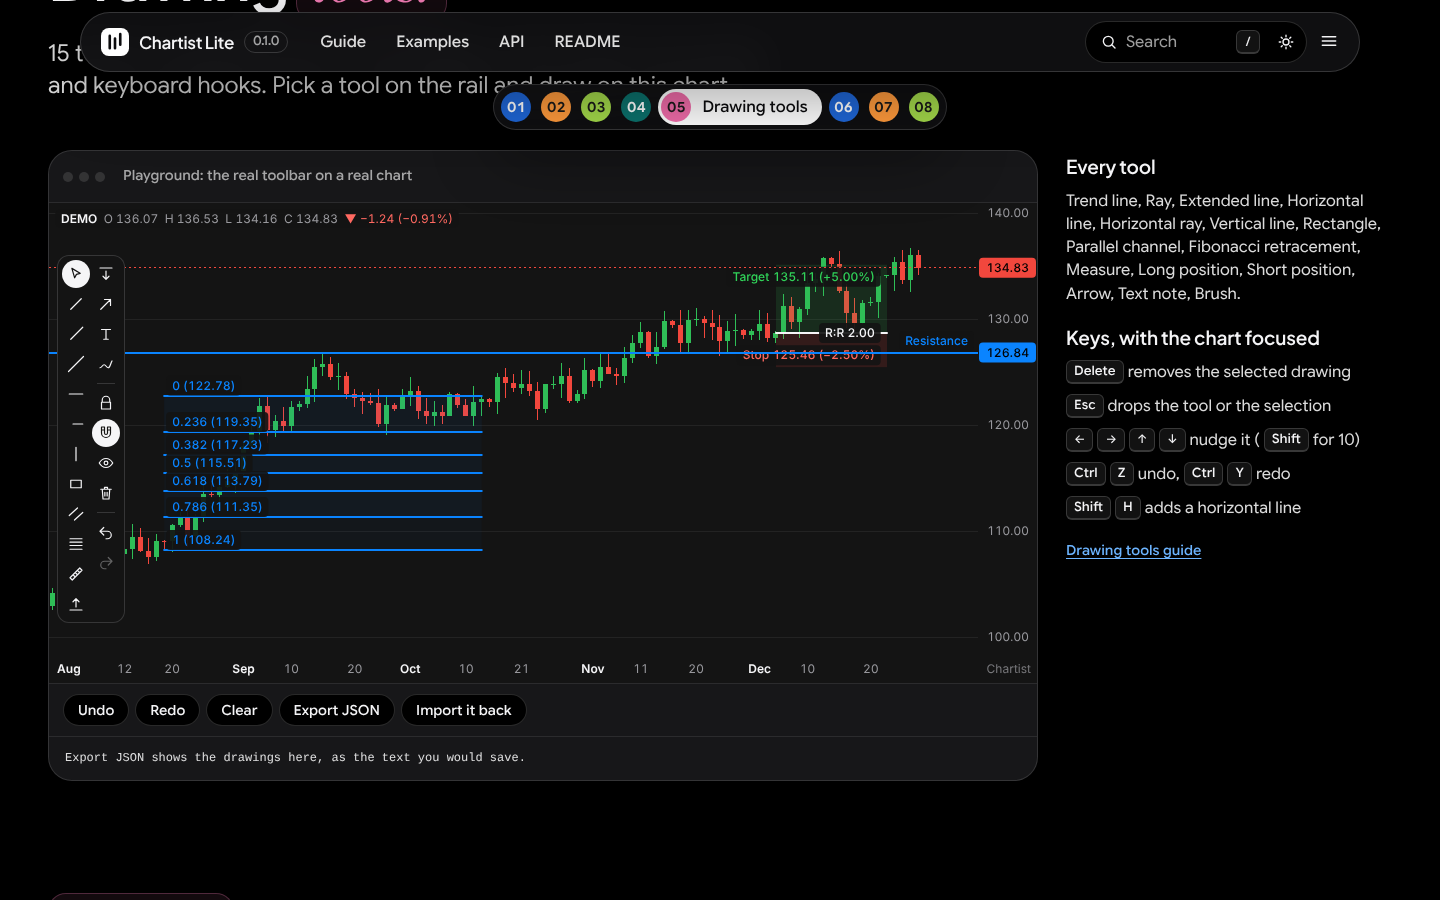
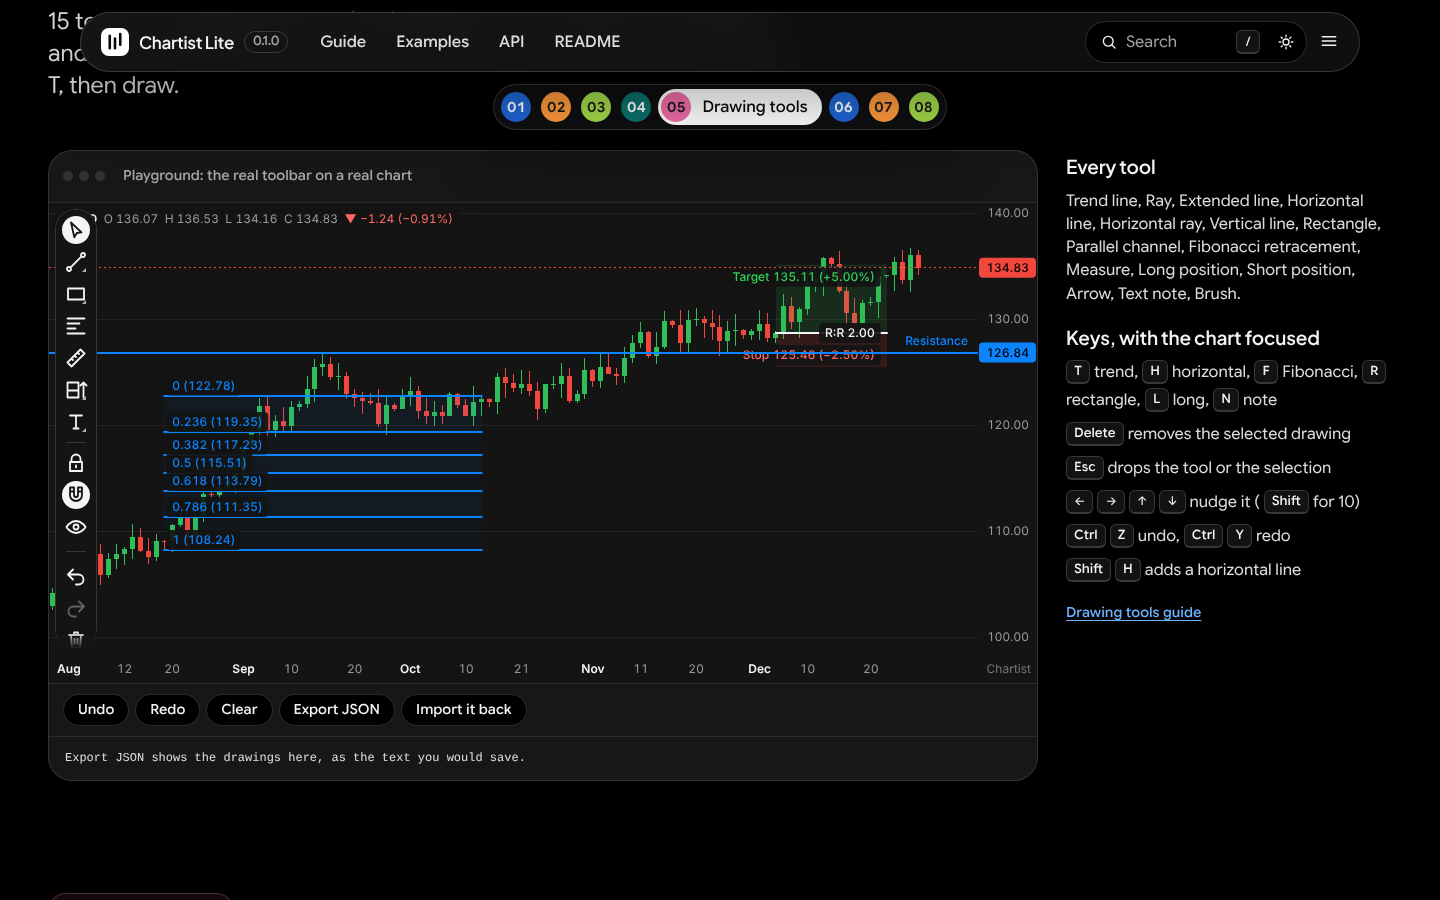
docs(chartist-lite): guide navigation as a framed panel, balanced page, drawing rail docs
Claude-Session: https://claude.ai/code/session_01ExJ6mdDp2qtjWTeRFWUfz3

diff --git a/site/src/site.js b/site/src/site.js
@@ -503,16 +503,43 @@ function initGuideNav() {
       let saved = 0;
       try { saved = Number(sessionStorage.getItem('cl-nav-scroll')) || 0; } catch (e) { saved = 0; }
       if (saved) sc.scrollTop = saved;
-      const cur = $('[aria-current="page"]', sc);
-      if (cur) {
+      sc._showCurrent = () => {
+        const cur = $('[aria-current="page"]', sc);
+        if (!cur) return;
         const top = cur.offsetTop - sc.offsetTop; const bottom = top + cur.offsetHeight;
         if (top < sc.scrollTop + 8 || bottom > sc.scrollTop + sc.clientHeight - 8) sc.scrollTop = Math.max(0, top - sc.clientHeight / 2 + cur.offsetHeight / 2);
-      }
+      };
+      sc._showCurrent();
       window.addEventListener('pagehide', () => { try { sessionStorage.setItem('cl-nav-scroll', String(sc.scrollTop)); } catch (e) { /* storage blocked */ } });
     }
     sc.addEventListener('scroll', fades, { passive: true });
     window.addEventListener('resize', fades);
     fades();
+  }
+  // Near the end of a page the sticky panel would be carried up under the top bar by the end of its column; it
+  // shrinks instead (its own scroll keeps working), so it never slides under the bar.
+  const side = $('.docs-nav .nav-panel');
+  const docs = side && side.closest('.docs');
+  if (side && docs) {
+    let queued = false;
+    const fit = () => {
+      queued = false;
+      const top = parseFloat(getComputedStyle(side.parentElement).top) || 0;
+      const room = Math.min(window.innerHeight - top - 20, docs.getBoundingClientRect().bottom - top - 20);
+      side.style.setProperty('--nav-max', `${Math.max(160, Math.floor(room))}px`);
+      const sc = $('[data-nav-scroll]', side);
+      if (sc) sc.dispatchEvent(new Event('scroll'));
+    };
+    const ask = () => { if (!queued) { queued = true; requestAnimationFrame(fit); } };
+    window.addEventListener('scroll', ask, { passive: true });
+    window.addEventListener('resize', ask);
+    fit();
+    const sc0 = $('[data-nav-scroll]', side);
+    if (sc0 && sc0._showCurrent) {
+      sc0._showCurrent();
+      // Rows change height when the web fonts arrive: check once more then.
+      if (document.fonts && document.fonts.ready) document.fonts.ready.then(() => { fit(); sc0._showCurrent(); });
+    }
   }
   const drawer = $('#drawer');
   for (const b of $$('[data-open-drawer]')) {

diff --git a/site/assets/site.css b/site/assets/site.css
@@ -637,7 +637,7 @@ pre.out { margin: 0; padding: 12px 16px; max-height: 180px; overflow: auto; bord
 /* The guide navigation: a framed panel of inset icon rows (the mrchartist.com menu panel), its own scroll with
    faded edges, "n of N" and previous / next at the foot. The same panel sits in the drawer on narrow screens. */
 .nav-panel { display: flex; flex-direction: column; border: 1px solid var(--hair-2); border-radius: var(--r-lg); background: var(--panel-glass); box-shadow: var(--shadow-card); overflow: hidden; }
-.nav-panel--side { max-height: calc(100vh - var(--bar-top) - var(--bar-h) - 40px); -webkit-backdrop-filter: blur(20px) saturate(1.4); backdrop-filter: blur(20px) saturate(1.4); }
+.nav-panel--side { max-height: var(--nav-max, calc(100vh - var(--bar-top) - var(--bar-h) - 40px)); -webkit-backdrop-filter: blur(20px) saturate(1.4); backdrop-filter: blur(20px) saturate(1.4); }
 .nav-panel--drawer { margin: 0 4px; box-shadow: none; }
 .nav-head { display: flex; align-items: center; justify-content: space-between; padding: 14px 16px 6px; }
 .nav-title { font: var(--t-eyebrow); letter-spacing: var(--tk-eyebrow); text-transform: uppercase; color: var(--muted); text-decoration: none; display: inline-flex; align-items: center; min-height: 28px; }

diff --git a/README.md b/README.md
@@ -2,14 +2,14 @@
 
 <p align="center"><strong>Financial charts that stay light.</strong> Candlesticks, indicators, drawing tools, stacked panes and exchange time zones on one canvas, with no runtime dependencies.</p>
 
-<p align="center"><img src="https://img.shields.io/badge/licence-Apache--2.0-0B0B0F" alt="Licence Apache-2.0"> <img src="https://img.shields.io/badge/dependencies-0-0B0B0F" alt="Runtime dependencies: 0"> <img src="https://img.shields.io/badge/core-32.6%20KB%20gzip-0B0B0F" alt="Core 32.6 KB gzip"> <img src="https://img.shields.io/badge/120%20Hz-worst%20p95%205.9%20ms-0B0B0F" alt="120 Hz frame budget: worst p95 5.9 ms of 8.33"> <img src="https://img.shields.io/badge/tests-202%20passing-0B0B0F" alt="202 tests passing"> <img src="https://img.shields.io/badge/types-TypeScript-0B0B0F" alt="Written in TypeScript"></p>
+<p align="center"><img src="https://img.shields.io/badge/licence-Apache--2.0-0B0B0F" alt="Licence Apache-2.0"> <img src="https://img.shields.io/badge/dependencies-0-0B0B0F" alt="Runtime dependencies: 0"> <img src="https://img.shields.io/badge/core-32.6%20KB%20gzip-0B0B0F" alt="Core 32.6 KB gzip"> <img src="https://img.shields.io/badge/120%20Hz-worst%20p95%205.9%20ms-0B0B0F" alt="120 Hz frame budget: worst p95 5.9 ms of 8.33"> <img src="https://img.shields.io/badge/tests-205%20passing-0B0B0F" alt="205 tests passing"> <img src="https://img.shields.io/badge/types-TypeScript-0B0B0F" alt="Written in TypeScript"></p>
 
 <p align="center"><picture><source media="(prefers-color-scheme: dark)" srcset="docs/screenshots/site-readme-hero-dark.png"><img src="docs/screenshots/site-readme-hero-light.png" alt="A Chartist Lite chart drawn from demo data: daily candles with a 20-bar moving average, Bollinger bands, volume and an RSI pane, with the built-in legend and crosshair" width="1600" height="800"></picture></p>
 
 ## What stands out
 
 - **120 Hz frame budget, measured:** in 96 scenarios up to 100000 bars, the costliest frame of our code took 5.90 ms at p95 of the 8.33 ms a 120 Hz screen allows; none went over ([how it was measured](docs/PERFORMANCE.md)).
-- **Drawing tools included:** 15 tools with a toolbar, undo and JSON export, in a 13.9 KB gzip entry.
+- **Drawing tools included:** 15 tools with a toolbar, undo and JSON export, in a 15.9 KB gzip entry.
 - **12 indicators built in,** plus Heikin-Ashi and bar aggregation, with live forms.
 - **One HTML tag to embed:** `<chartist-chart>` reads JSON or CSV and carries text for crawlers.
 - **Exchange time zones without session gaps,** daylight saving included.
@@ -129,8 +129,8 @@ Real screenshots of the library, drawn from invented demo data.
 | ![Six small charts: candlestick, OHLC bars, line, area, histogram and baseline](docs/screenshots/series-dark.png) | ![A candlestick chart with volume on an overlay scale and an RSI pane below](docs/screenshots/panes-dark.png) |
 | **Indicators** | **The chartist-chart element** |
 | ![Candlesticks with a 20-bar moving average and Bollinger bands, an RSI pane and a MACD pane](docs/screenshots/indicators-dark.png) | ![A chart drawn by the chartist-chart web component](docs/screenshots/element-dark.png) |
-| **Drawing tools** | **Every tool** |
-| ![The drawing toolbar on a candlestick chart with a Fibonacci retracement, a trend line, a long position with target and stop, a labelled resistance line and a text note](docs/screenshots/drawings-dark.png) | ![All fifteen drawing tools on one chart](docs/screenshots/drawings-all-tools.png) |
+| **Drawing tools** | **Grouped rail with flyout menus** |
+| ![The drawing rail on a candlestick chart with a Fibonacci retracement, a trend line, a long position with target and stop, a labelled resistance line and a text note](docs/screenshots/drawings-dark.png) | ![The Shapes flyout open on the drawing rail, listing Rectangle with its key R and Parallel channel](docs/screenshots/drawings-flyout.png) |
 
 ## Performance
 
@@ -158,8 +158,8 @@ Bundled and minified with esbuild, gzipped at level 9, by `npm run size` on the 
 | Indicators | 5.2 KB |
 | Element (includes the chart) | 35.1 KB |
 | React (includes the chart) | 32.1 KB |
-| Drawings | 13.9 KB |
-| Script tag files: core, indicators, element, drawings | 32.9 KB, 5.5 KB, 35.4 KB, 14.1 KB |
+| Drawings | 15.9 KB |
+| Script tag files: core, indicators, element, drawings | 32.9 KB, 5.5 KB, 35.4 KB, 16.1 KB |
 
 The core has a 45 KB budget that `npm run size` enforces. Run `npm run build && npm run size` for the current numbers.
 
@@ -173,7 +173,7 @@ The core has a 45 KB budget that `npm run size` enforces. Run `npm run build && 
 | Legend | Built in, per pane: each titled series with the values of the hovered bar, or the last bar; the change with an arrow and a sign |
 | Time zones | IANA zones for the time axis and crosshair, `'local'`, daylight saving handled; no slot for nights, weekends or holidays |
 | Themes | Light, dark and auto (follows the system setting), colour overrides, system font stack, switch at runtime |
-| Drawing tools | 15 tools, a toolbar, magnet, keyboard editing, undo and redo, events, versioned JSON, opt-in saving; pointer hooks for tools of your own |
+| Drawing tools | 15 tools on a grouped rail with flyout menus and single-key shortcuts, magnet, keyboard editing, undo and redo, events, versioned JSON, opt-in saving; pointer hooks for tools of your own |
 | Plugins | Price lines, series markers, and a primitive contract for your own overlays |
 | Accessibility | Focusable chart with a name and spoken help, keyboard pan, zoom and bar-by-bar inspection through a live region, kinetic glide off under reduced motion, minimum text size 12 px |
 | Interaction | Wheel and pinch zoom that does not trap page scrolling (`wheelZoom: 'auto'`), drag pan with kinetic glide, price axis stretch, double-click reset, crosshair modes |
@@ -198,7 +198,7 @@ Details, attributes and data formats: [Embedding the chart](docs/guide/embedding
 
 ## Status and what is not verified
 
-Tested in Chromium (driven by Playwright): the example pages draw with no console errors in light and dark, including a page with a strict Content-Security-Policy (`style-src 'self'`), right-to-left text and hostile global CSS. 202 unit tests pass (`npm test`).
+Tested in Chromium (driven by Playwright): the example pages draw with no console errors in light and dark, including a page with a strict Content-Security-Policy (`style-src 'self'`), right-to-left text and hostile global CSS. 205 unit tests pass (`npm test`).
 
 Not verified yet:
 

diff --git a/docs/guide/drawing-tools.md b/docs/guide/drawing-tools.md
@@ -25,7 +25,7 @@ candles.setData(bars);
 const tools = createDrawingTools(chart, candles, { toolbar: true });
 ```
 
-Pick a tool on the rail, then press on the chart. Tools with two points take a press and a release (or two clicks); a horizontal line takes one; the brush draws while you hold. After a drawing is finished the rail goes back to the cursor, unless keep drawing is on. Importing the entry touches no DOM; the toolbar is built only when `toolbar` is set.
+Pick a tool on the rail, or focus the chart and press its key (T for a trend line), then press on the chart. Tools with two points take a press and a release (or two clicks); a horizontal line takes one; the brush draws while you hold. After a drawing is finished the rail goes back to the cursor, unless keep drawing is on. Importing the entry touches no DOM; the toolbar is built only when `toolbar` is set.
 
 With a script tag, load `chartist-lite-drawings.iife.min.js` after the core file and use the global `ChartistLiteDrawings`.
 
@@ -39,27 +39,27 @@ With a script tag, load `chartist-lite-drawings.iife.min.js` after the core file
 | `defaultStyle` | `{ color, width: 1 \| 2 \| 3, dash: 'solid' \| 'dashed' }` for new drawings | the theme's line colour, width 2, solid |
 | `persist` | `{ key, storage? }`: save after every change and load at start (`localStorage` unless you pass a storage) | off |
 
-The rail also holds keep drawing, magnet, hide all, delete all, undo and redo. Selecting a drawing shows a small style bar for its colour, width and dash. The toolbar lives in a shadow root and writes its styles through the CSSOM, so page CSS cannot reach it and a strict `style-src 'self'` policy does not block it.
+The rail is one column of grouped buttons: the cursor, then Lines, Shapes, Fibonacci, Measure, Positions and Annotate. A group with more than one tool opens a flyout menu that lists each tool with its key; the menu works with the arrow keys, Home, End, Enter and Escape. Below the groups sit keep drawing, magnet and hide all, then undo, redo and delete all. Selecting a drawing shows a small style bar for its colour, width and dash. The toolbar lives in a shadow root and writes its styles through the CSSOM, so page CSS cannot reach it and a strict `style-src 'self'` policy does not block it.
 
 ## The tools
 
-| Id | Tool | Points |
-|---|---|---|
-| `trend` | Trend line | 2 |
-| `ray` | Ray | 2 |
-| `extended` | Extended line | 2 |
-| `horizontal` | Horizontal line | 1 |
-| `horizontalRay` | Horizontal ray | 1 |
-| `vertical` | Vertical line | 1 |
-| `rectangle` | Rectangle | 2 |
-| `channel` | Parallel channel | 3 |
-| `fib` | Fibonacci retracement | 2 |
-| `measure` | Measure | 2 |
-| `long` | Long position | 2 |
-| `short` | Short position | 2 |
-| `arrow` | Arrow | 2 |
-| `text` | Text note | 1 |
-| `brush` | Brush | freehand |
+| Id | Tool | Rail group | Key | Points |
+|---|---|---|---|---|
+| `trend` | Trend line | Lines | T | 2 |
+| `ray` | Ray | Lines | | 2 |
+| `extended` | Extended line | Lines | | 2 |
+| `horizontal` | Horizontal line | Lines | H | 1 |
+| `horizontalRay` | Horizontal ray | Lines | | 1 |
+| `vertical` | Vertical line | Lines | V | 1 |
+| `rectangle` | Rectangle | Shapes | R | 2 |
+| `channel` | Parallel channel | Shapes | | 3 |
+| `fib` | Fibonacci retracement | Fibonacci | F | 2 |
+| `measure` | Measure | Measure | M | 2 |
+| `long` | Long position | Positions | L | 2 |
+| `short` | Short position | Positions | S | 2 |
+| `arrow` | Arrow | Annotate | A | 2 |
+| `text` | Text note | Annotate | N | 1 |
+| `brush` | Brush | Annotate | B | freehand |
 
 The list is exported as `TOOLS` (`{ id, label, points }`, with 0 points for the brush). The Fibonacci tool draws the levels 0, 0.236, 0.382, 0.5, 0.618, 0.786 and 1. A long or short position given two points (entry and target) gets a stop at half that distance on the other side, a reward to risk of 2.00; drag it to change it. Holding Shift while placing a point keeps the line horizontal, vertical or at 45 degrees from the previous point.
 
@@ -69,6 +69,7 @@ With the chart focused:
 
 | Key | Action |
 |---|---|
+| T, H, V, R, F, M, L, S, A, N, B | Pick that tool (see the table above); the same key again drops it. Only without Shift, Alt, Ctrl or Cmd |
 | Delete, Backspace | Remove the selected drawing |
 | Escape | Cancel the drawing in progress, then drop the tool, then the selection |
 | Left, Right | Move the selected drawing by one bar (Shift: 10) |
